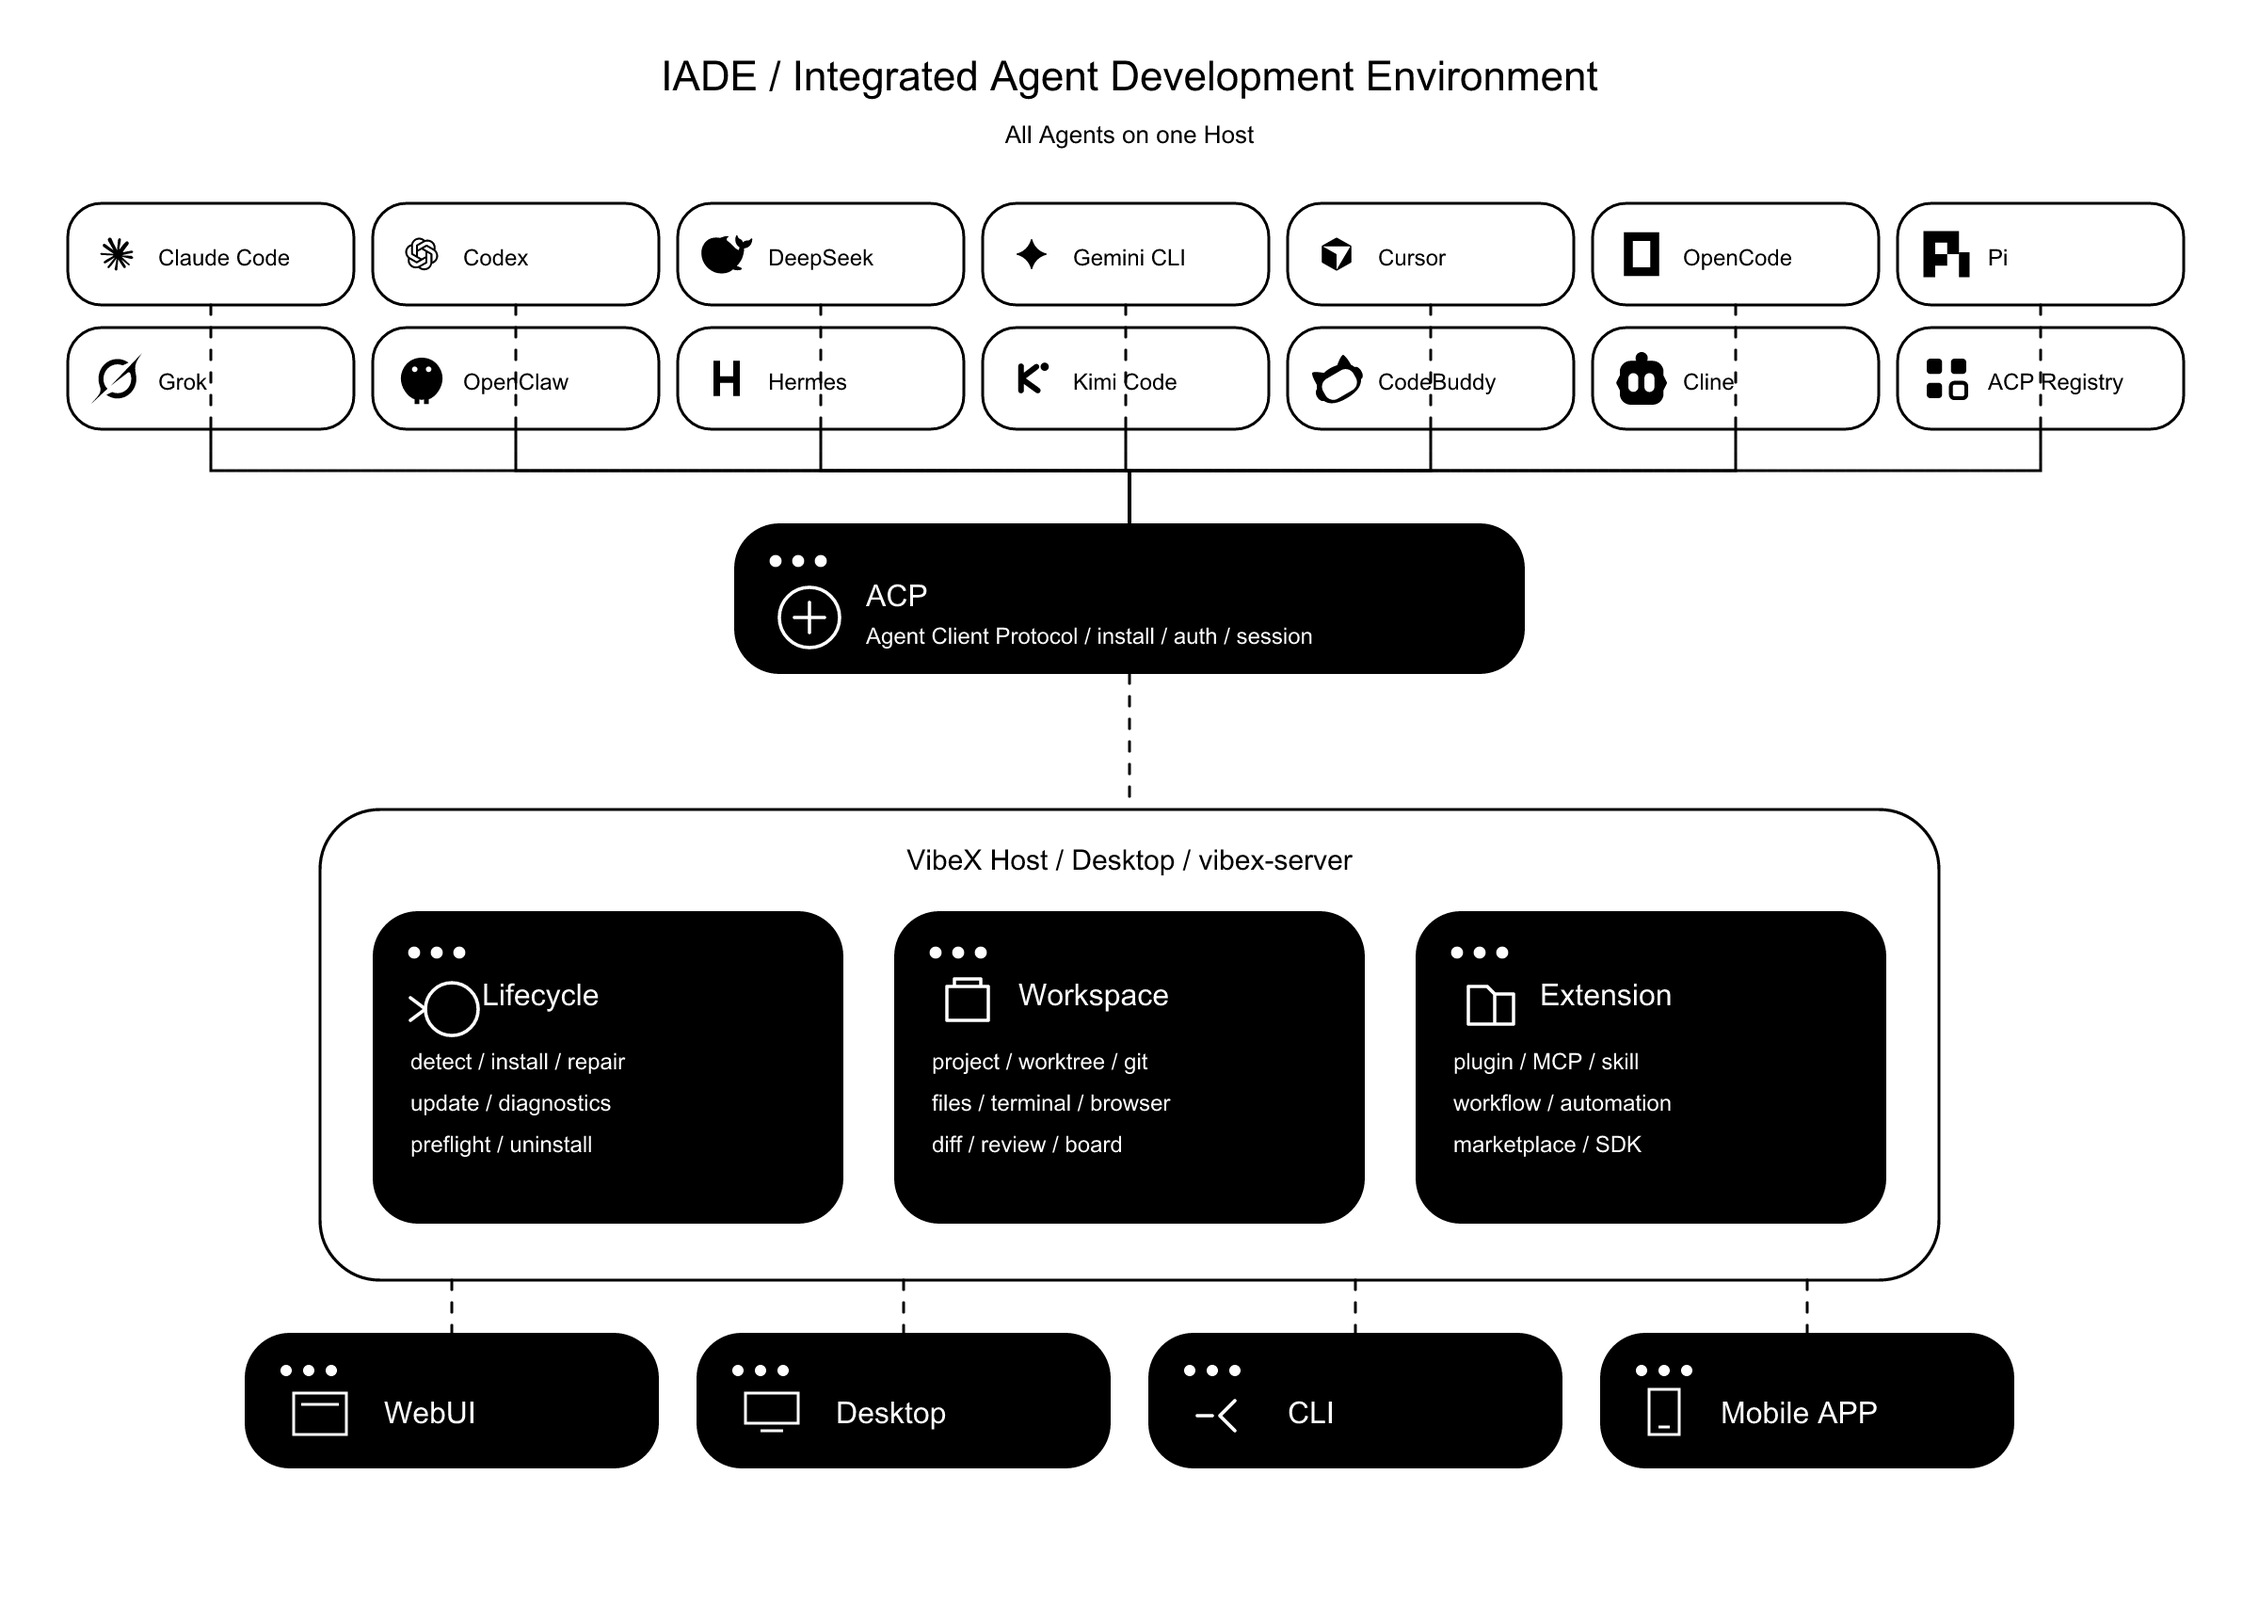
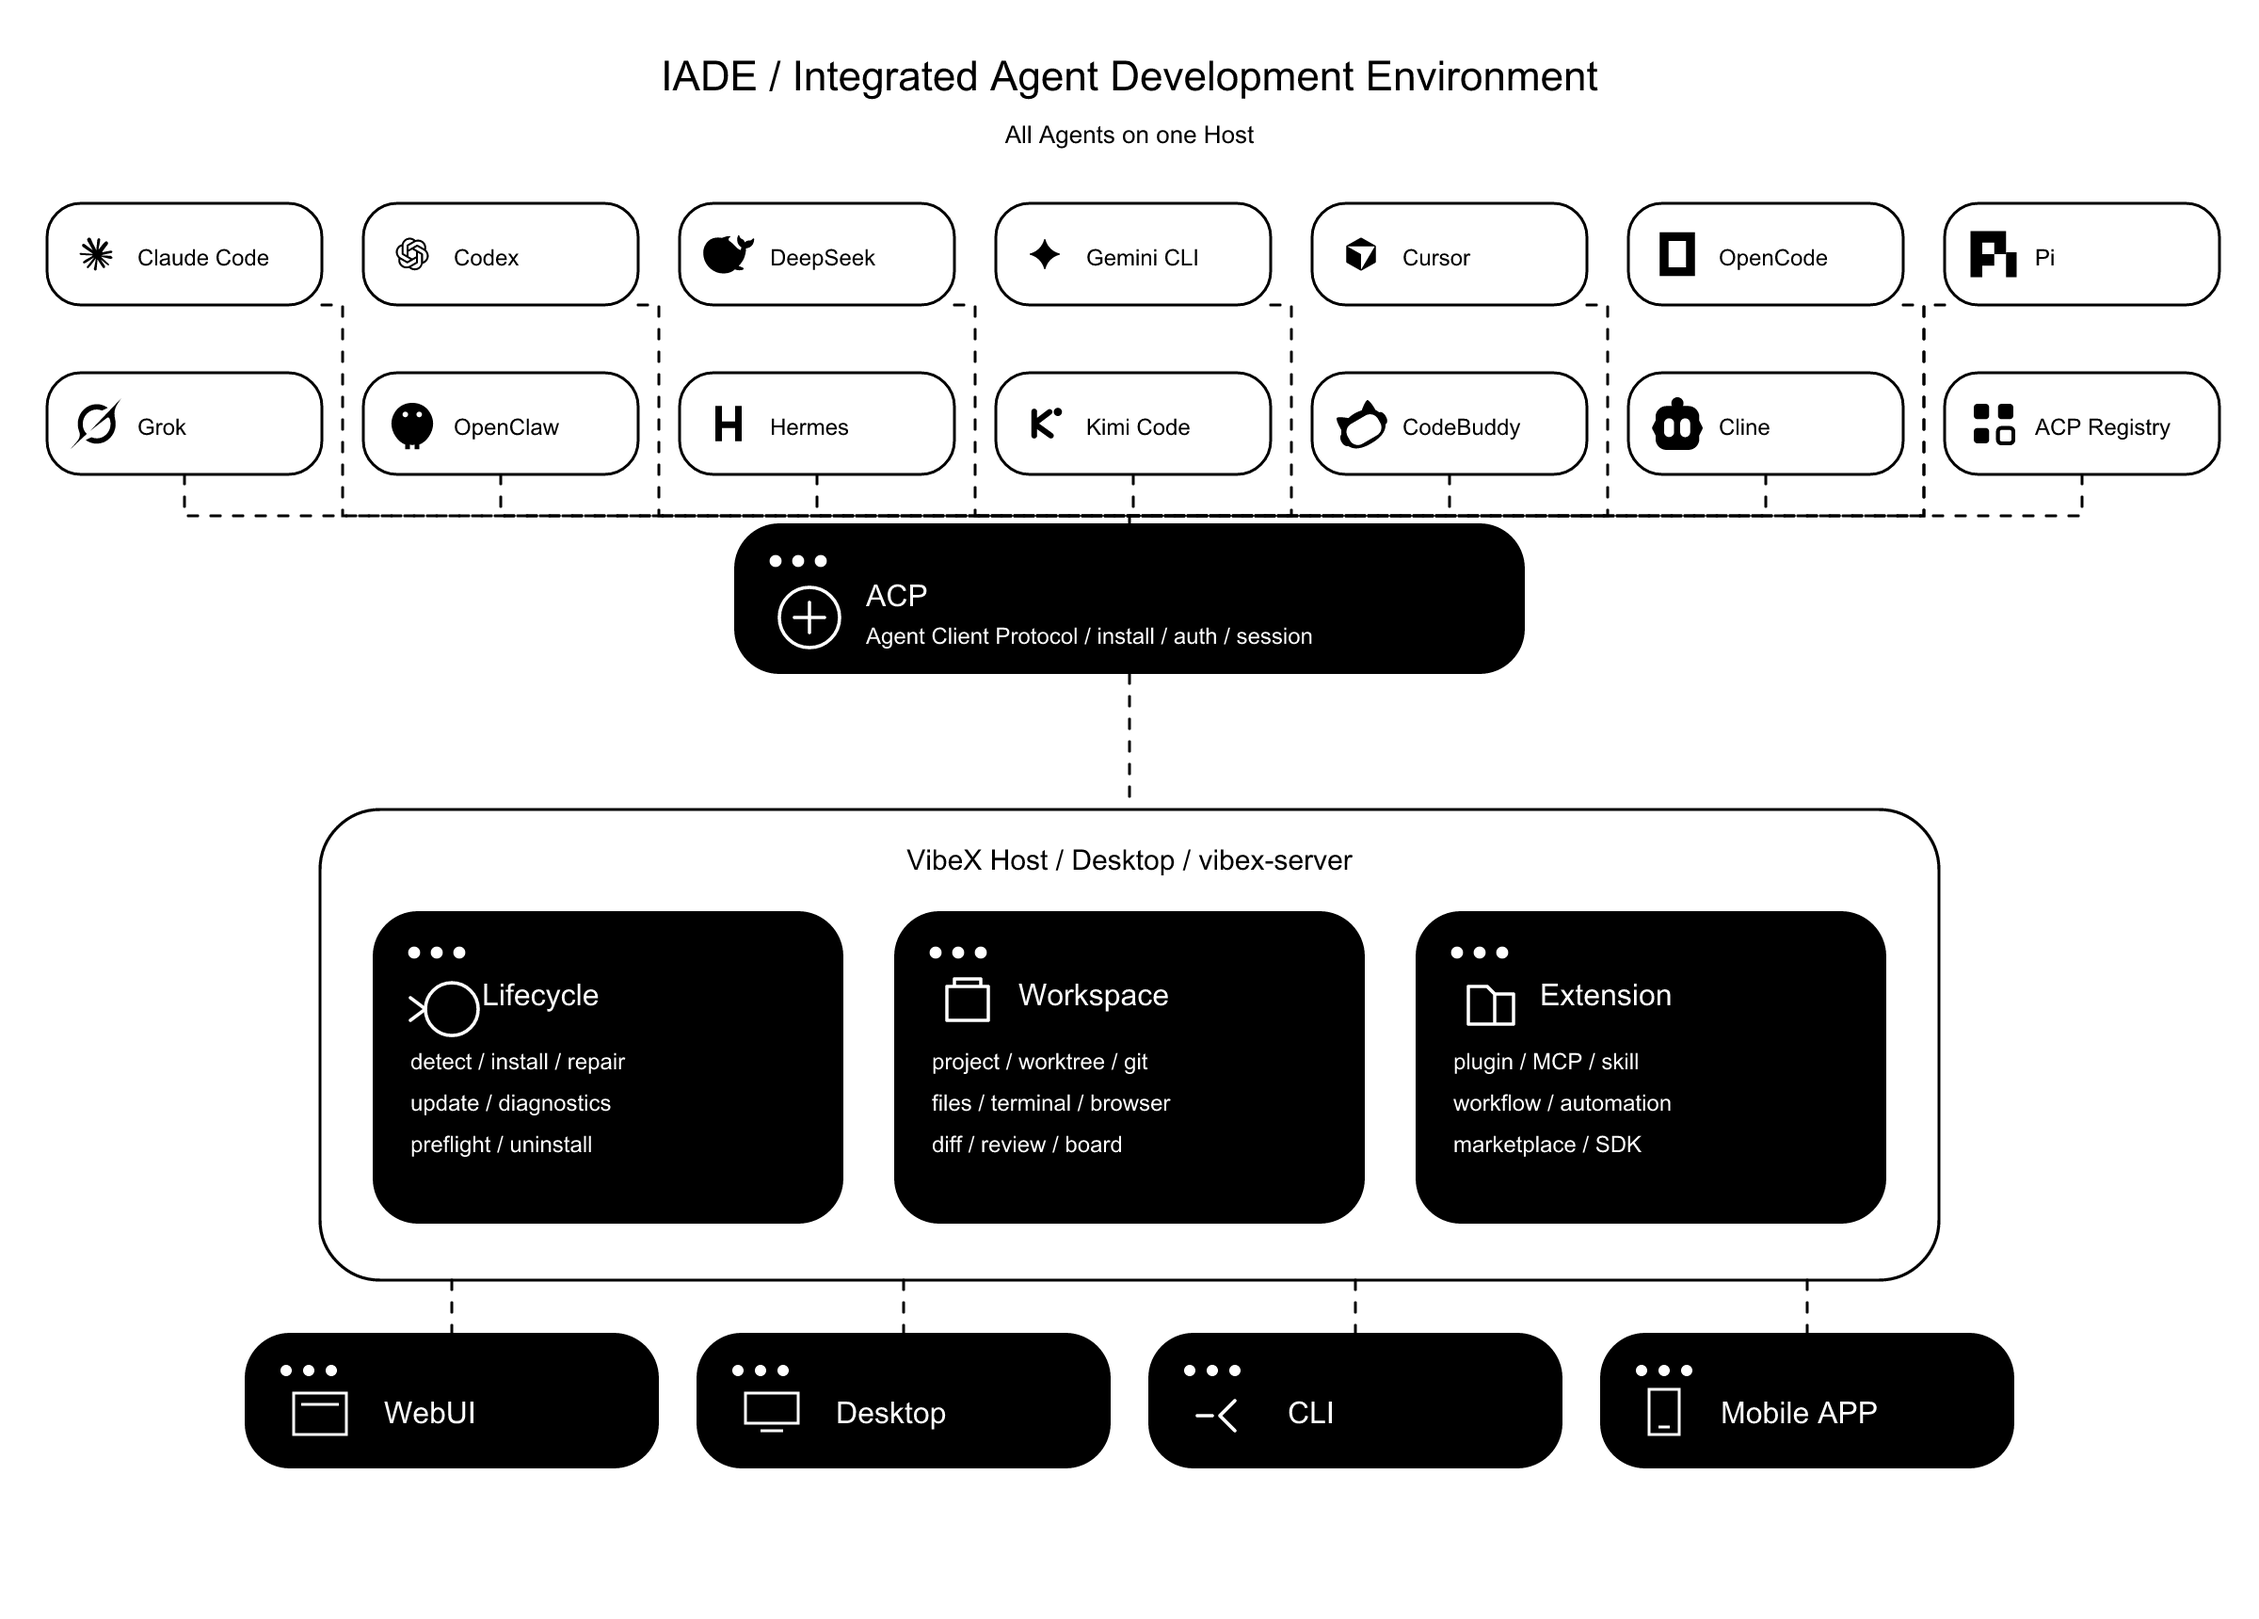
fix(docs): route agent dashes through column gaps
Keep the first-row ingress lines in the alleys between cards so they no longer cross the second-row agent chips.

Changed region(s): [[0.0312, 0.1233, 0.9688, 0.3081], [0.3438, 0.1541, 0.375, 0.1849]]

diff --git a/scripts/render-readme-diagrams.py b/scripts/render-readme-diagrams.py
@@ -113,15 +113,14 @@ def icon_at(key: str, x: float, y: float, size: float) -> str:
 
 def hero() -> str:
     chips = []
-    chip_w, chip_h, gap, left, top = 152, 54, 10, 36, 108
-    centers = []
+    chip_w, chip_h, gap, left, top = 146, 54, 22, 25, 108
+    row_gap = 36
+    boxes = []
     for i, (key, label) in enumerate(AGENTS):
         row, col = divmod(i, 7)
         x = left + col * (chip_w + gap)
-        y = top + row * (chip_h + 12)
-        cx = x + chip_w / 2
-        cy = y + chip_h
-        centers.append((cx, cy))
+        y = top + row * (chip_h + row_gap)
+        boxes.append((row, col, x, y, x + chip_w / 2, y + chip_h))
         chips.append(
             f'<g>'
             f'<rect x="{x}" y="{y}" width="{chip_w}" height="{chip_h}" rx="18" fill="#fff" stroke="#000" stroke-width="1.5"/>'
@@ -130,11 +129,22 @@ def hero() -> str:
             f"</g>"
         )
 
-    bus_y = 250
+    lower_bus_y = boxes[7][5] + 22
     acp = (600, 318)
     flows = []
-    for i, (cx, cy) in enumerate(centers):
-        flows.append(dash(f"M{cx:.1f} {cy:.1f} V{bus_y} H600 V{acp[1] - 40}", 0.08 * i))
+    for i, (row, col, x, _y, cx, cy) in enumerate(boxes):
+        if row == 0:
+            if col < 6:
+                start_x = x + chip_w
+                alley = x + chip_w + gap / 2
+            else:
+                start_x = x
+                alley = x - gap / 2
+            path = f"M{start_x:.1f} {cy:.1f} H{alley:.1f} V{lower_bus_y} H600"
+        else:
+            path = f"M{cx:.1f} {cy:.1f} V{lower_bus_y} H600"
+        flows.append(dash(path, 0.07 * i))
+    flows.append(dash(f"M600 {lower_bus_y} V{acp[1] - 40}", 0.12))
 
     return f"""<svg xmlns="http://www.w3.org/2000/svg" width="1200" height="860" viewBox="0 0 1200 860">
   <title>VibeX IADE</title>
@@ -142,10 +152,10 @@ def hero() -> str:
   <rect width="1200" height="860" fill="#ffffff"/>
   <text x="600" y="48" text-anchor="middle" fill="#000" font-size="22" font-weight="700" font-family="ui-sans-serif, system-ui, -apple-system, 'Segoe UI', sans-serif">IADE / Integrated Agent Development Environment</text>
   <text x="600" y="76" text-anchor="middle" fill="#000" font-size="13" font-family="ui-sans-serif, system-ui, -apple-system, 'Segoe UI', sans-serif">All Agents on one Host</text>
+  <g>{"".join(flows)}</g>
   <g font-family="ui-sans-serif, system-ui, -apple-system, 'Segoe UI', sans-serif">
     {"".join(chips)}
   </g>
-  <g>{"".join(flows)}</g>
   {dash(f"M600 {acp[1] + 40} V430", 0.2)}
   <g font-family="ui-sans-serif, system-ui, -apple-system, 'Segoe UI', sans-serif">
     <rect x="390" y="278" width="420" height="80" rx="24" fill="#000"/>
